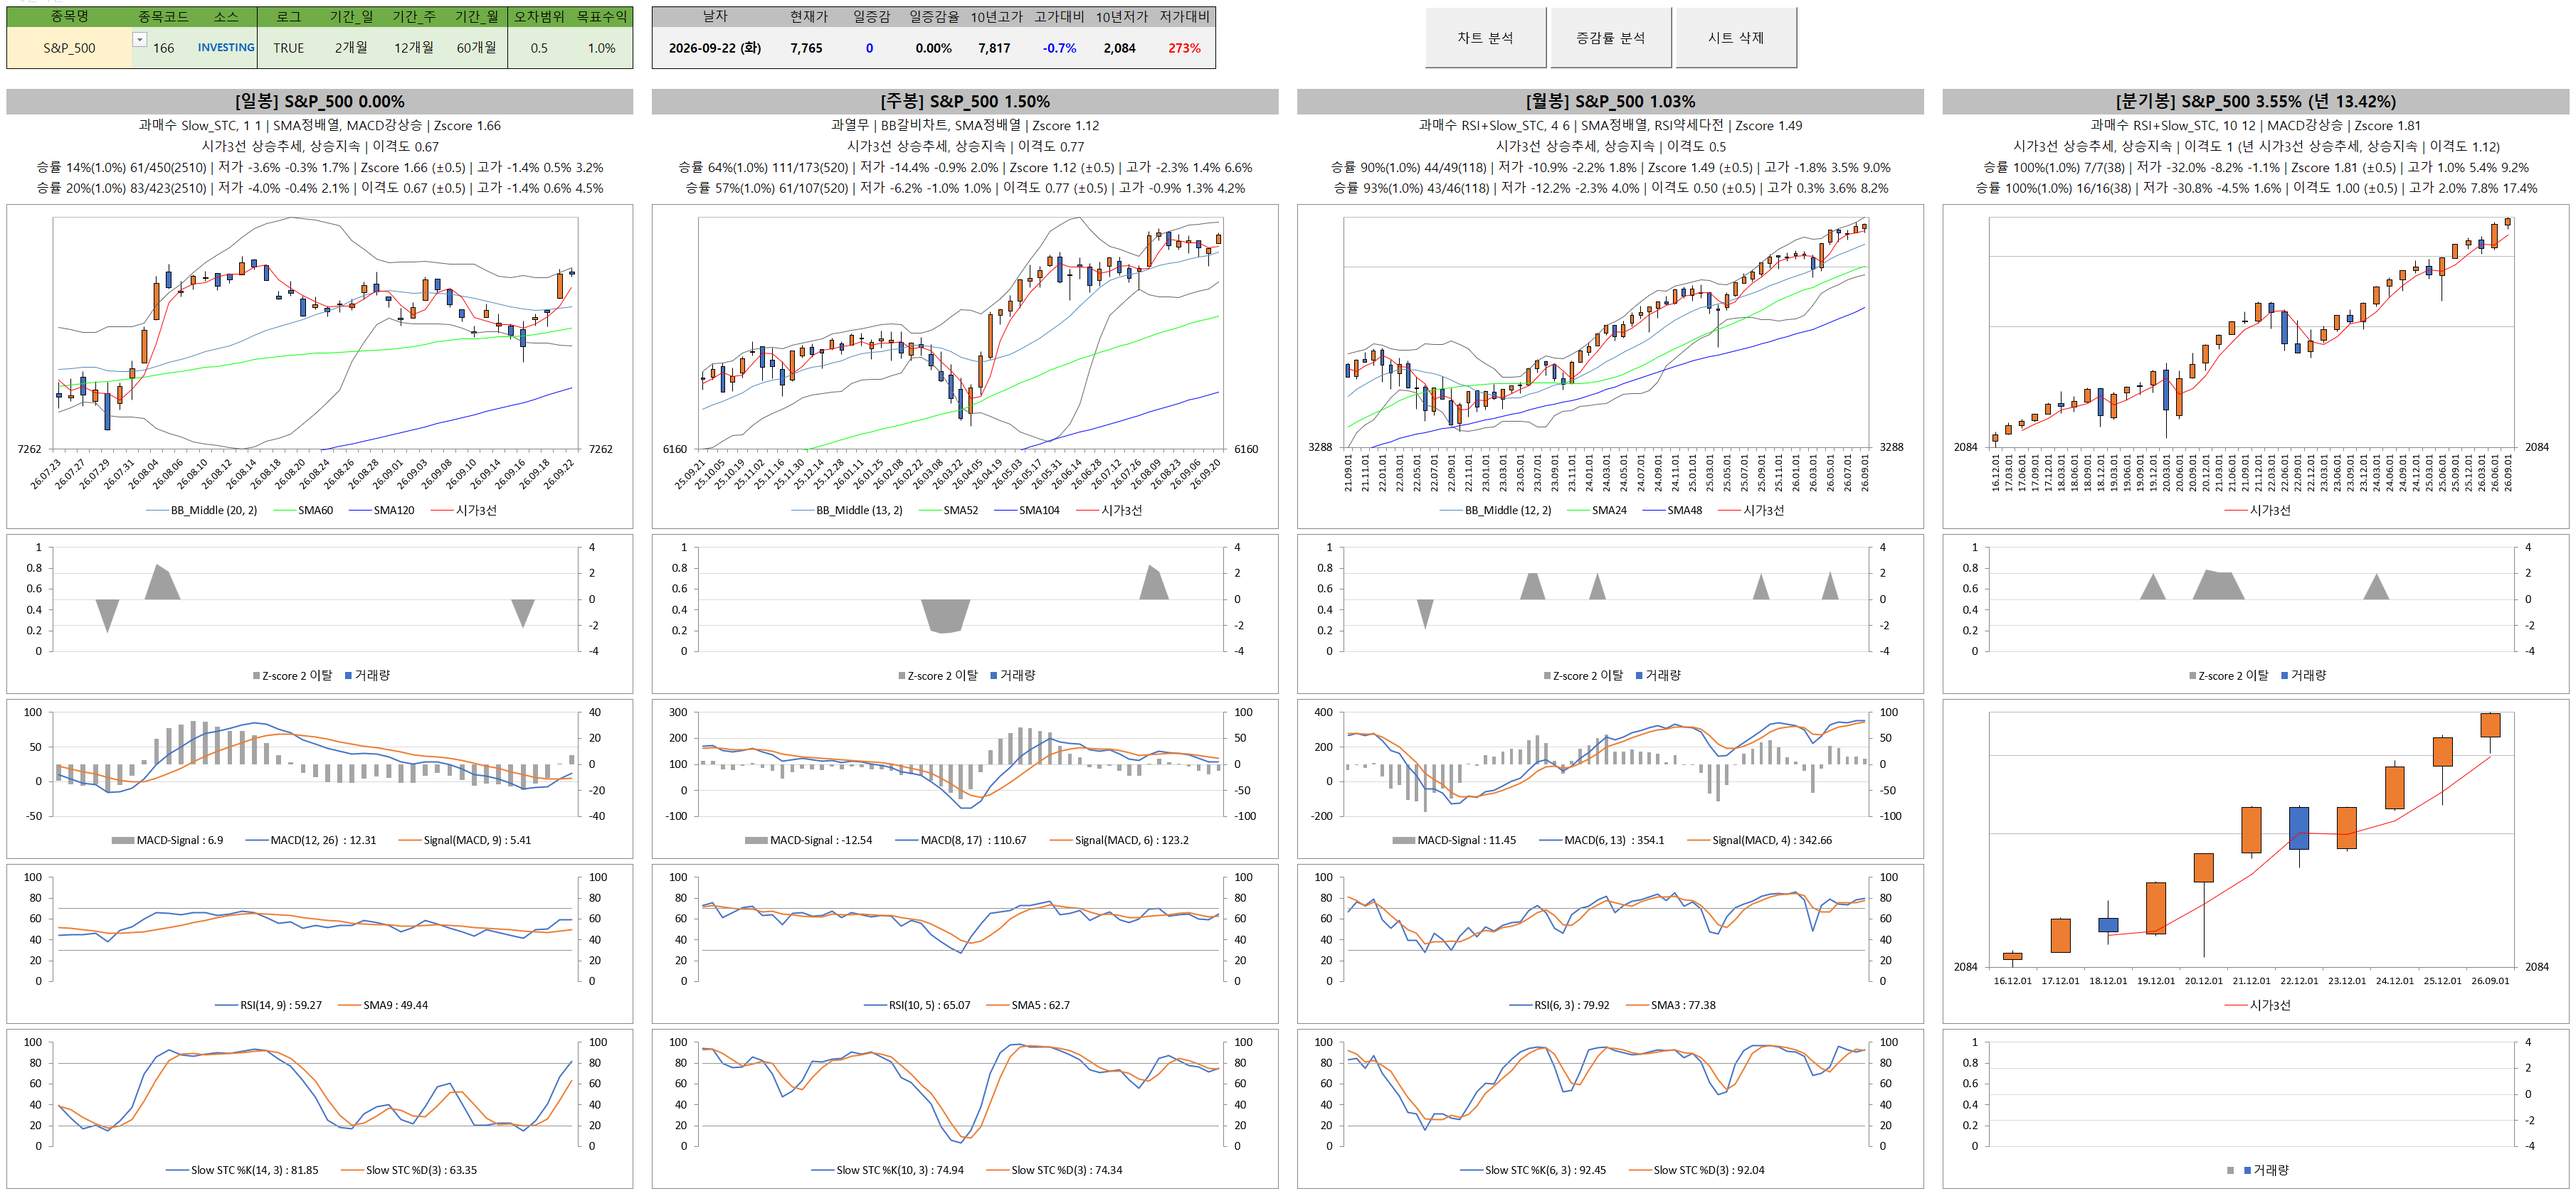
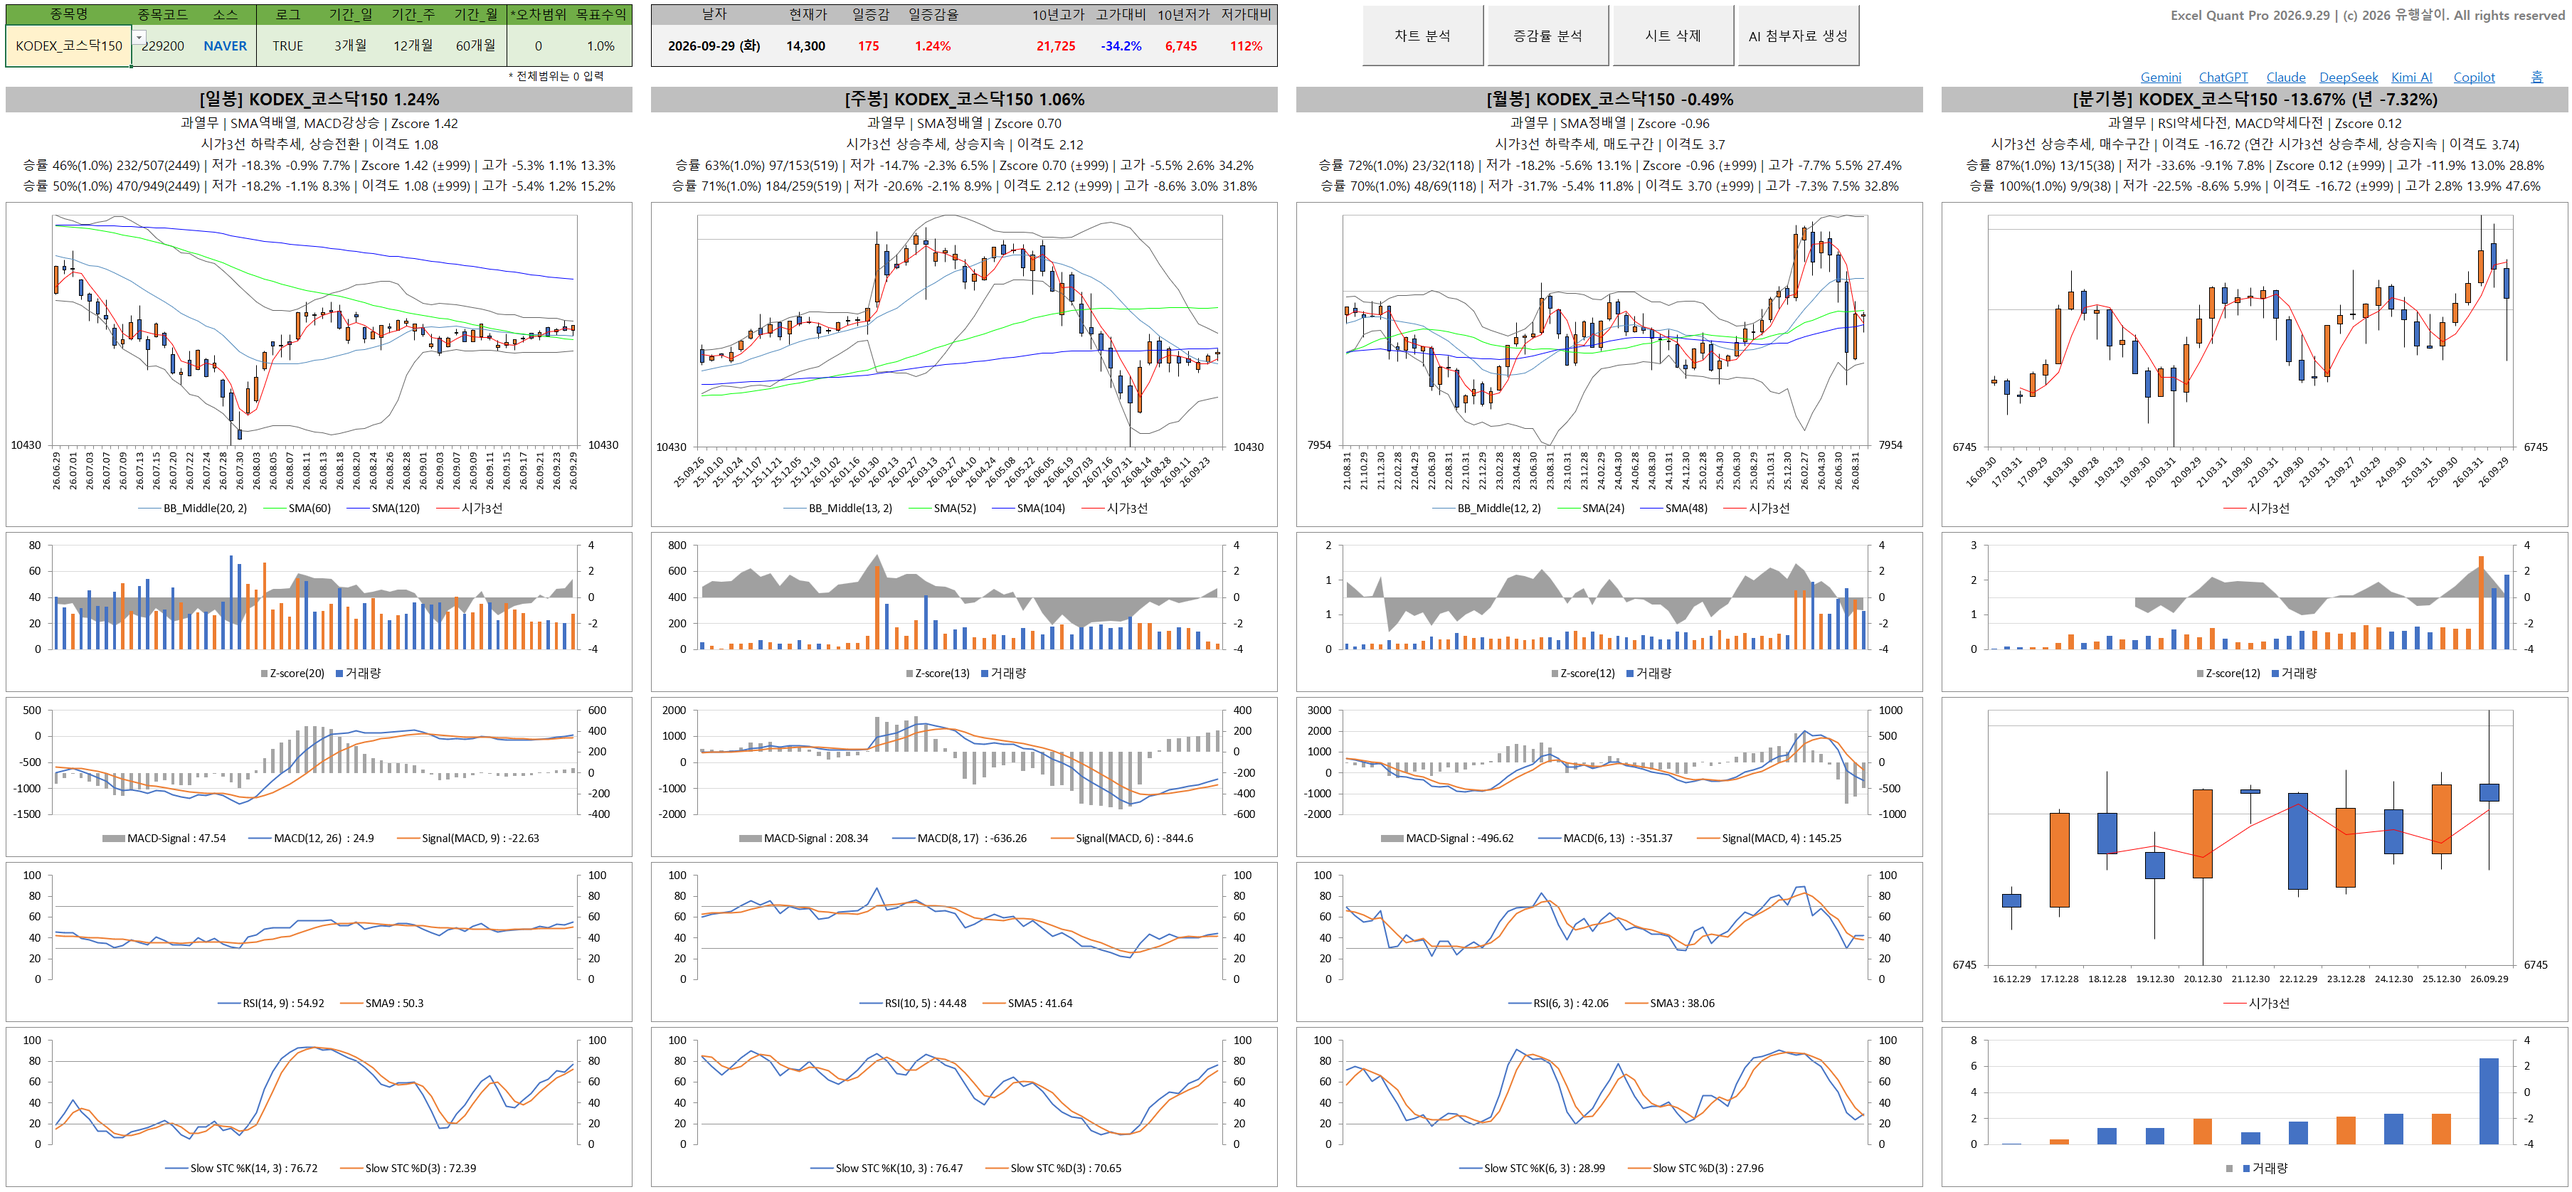
26.9.29

diff --git a/index_EQP.html b/index_EQP.html
@@ -207,7 +207,7 @@
     .hero-subtitle {
       max-width: 780px;
       margin: 0 auto 36px;
-      font-size: 1.15rem;
+      font-size: 1rem;
       color: var(--text-secondary);
       line-height: 1.7;
     }
@@ -834,15 +834,16 @@
       </p>
 
       <div class="dl-btn-group">
-        <a href="https://drive.google.com/file/d/1wDHIf-Pf0gulhogchH1PGT6gxYIw7iT3/view?usp=sharing"
+        <a href="https://drive.google.com/file/d/1RZ8KtH0mtKMTAUqcHTxEHgon3g0SZKA0/view?usp=sharing"
           class="btn btn-emerald" style="font-size:1.1rem; padding:16px 36px;" id="main-download-button">
           <svg width="22" height="22" viewBox="0 0 24 24" fill="none" stroke="currentColor" stroke-width="2.5">
             <path d="M21 15v4a2 2 0 0 1-2 2H5a2 2 0 0 1-2-2v-4"></path>
             <polyline points="7 10 12 15 17 10"></polyline>
             <line x1="12" y1="15" x2="12" y2="3"></line>
           </svg>
-          다운로드 (지인 한정)
+          다운로드(2026.9.29)
         </a>
+        <p class="stat-box-desc">지인에 한해 제공 (압축암호 필요)</p>
       </div><br>
 
       <!-- Feature Highlight Strip -->
@@ -976,7 +977,7 @@
                 * 이격도 = (종가 - 시가3선) / 표준편차
               </p>
             </div>
-            * 일봉, 주봉, 월봉, 분기봉 모두 동일한 방식으로 Z-Score와 이격도 기반 승률 백테스팅을 제공합니다.
+            <p class="stat-box-desc">* 일봉, 주봉, 월봉, 분기봉 모두 동일한 방식으로 Z-Score와 이격도 기반 승률 백테스팅을 제공합니다.</p>
           </div>
 
         </div>
@@ -1107,8 +1108,25 @@
             </p>
           </div>
         </div>
-
       </div>
+      <br>
+      
+      <div class="ai-export-guide">
+        <h3>AI 분석용 파일 생성</h3>
+        <p>프로그램에서 생성되는 AI 분석용 파일을 통해 Gemini, ChatGPT 등 AI 플랫폼에 첨부하여 종합적인 분석보고서를 받아볼 수 있습니다.</p>
+        <div class="ai-export-files">
+          <div class="ai-export-file">
+            <strong>문서\종목명 자료.xlsx</strong>
+            <span>일봉·주봉·월봉·분기봉·연간봉 상세 데이터</span>
+          </div>
+          <div class="ai-export-file">
+            <strong>문서\종목명 질의.txt</strong>
+            <span>AI에 질의할 문장</span>
+          </div>
+        </div>
+        <p>사용 방법: 상기 두 파일을 AI 입력창에 끌어다 놓거나 첨부 후 엔터를 누르면 검토 결과가 표시됩니다.</p>
+      </div>
+
     </div>
   </div>
 
@@ -1155,24 +1173,6 @@
           <span class="step-badge">STEP 04</span>
           <h4>파라미터 입력 & 실행</h4>
           <p>종목명과 종목코드, 소스를 입력하고 <strong>[실행]</strong> 버튼을 누르면 끝!</p>
-        </div>
-      </div>
-
-      <div class="ai-export-guide">
-        <h3>AI 분석용 파일 생성</h3>
-        <p>종목 분석 실행 후 생성된 파일 2개를 AI에 함께 첨부해 분석을 요청할 수 있습니다.</p>
-        <div class="ai-export-files">
-          <div class="ai-export-file">
-            <strong>문서\종목명.xlsx</strong>
-            <span>일봉·주봉·월봉·분기봉·연간봉 주가 데이터</span>
-          </div>
-          <div class="ai-export-file">
-            <strong>문서\종목명 질의.txt</strong>
-            <span>AI에 질의할 문장</span>
-          </div>
-        </div>
-        <div class="ai-export-instruction">
-          사용 방법: 두 파일을 AI 입력창에 끌어다 놓거나 파일 첨부로 추가한 뒤, 엔터를 눌러 전송합니다.
         </div>
       </div>
 
